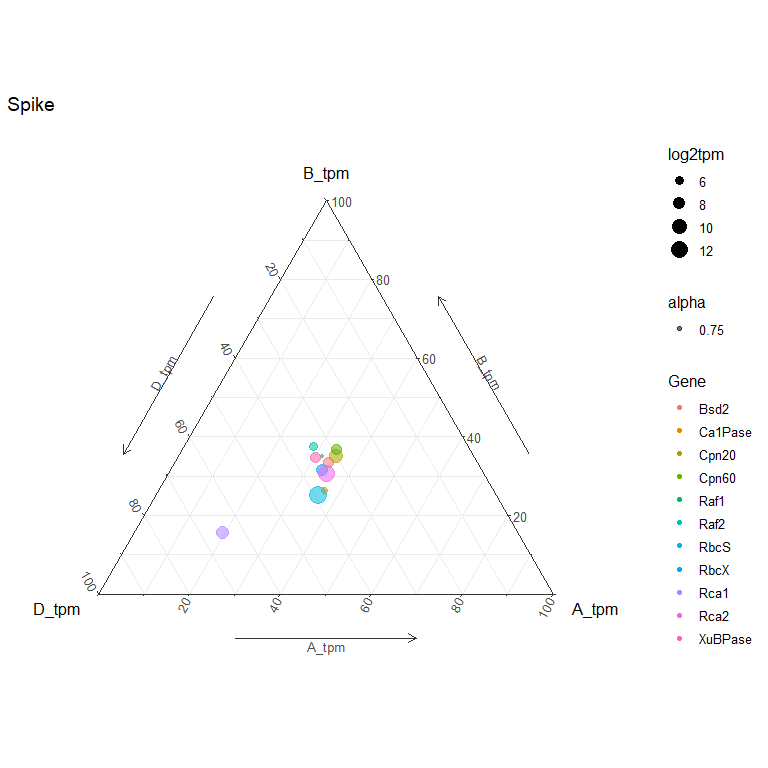
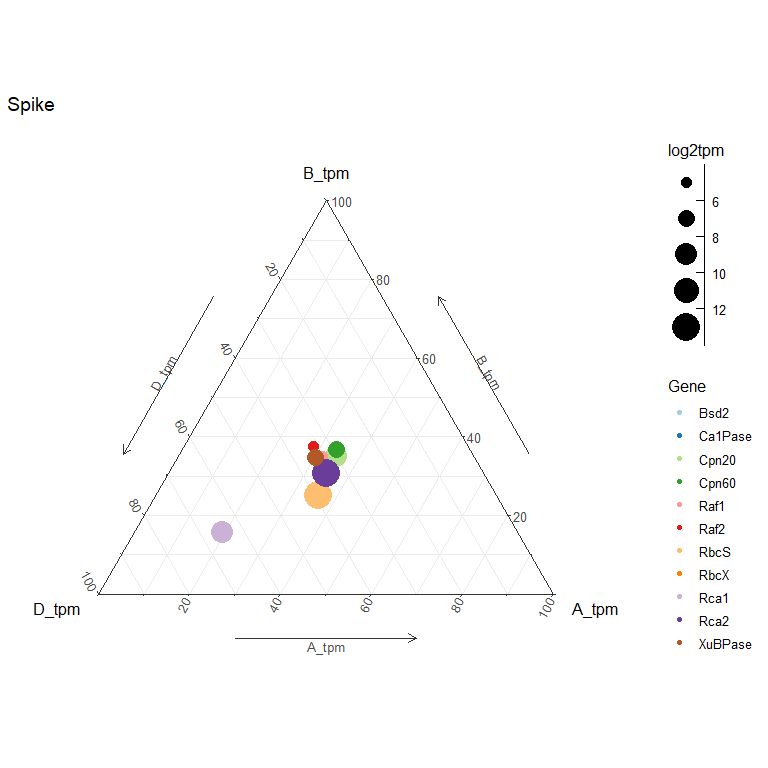
Completed Analysis

Changed region(s): [[0.875, 0.1875, 1.0, 0.8438], [0.375, 0.5625, 0.4688, 0.6875], [0.2812, 0.6562, 0.3125, 0.7188]]

diff --git a/Wheat-Rubiscosome-Expression-Balance-Report.md b/Wheat-Rubiscosome-Expression-Balance-Report.md
@@ -274,8 +274,11 @@ Rubiscosome_mean_heat_control <- full_join(Rubiscosome_mean_heat, Rubiscosome_me
 Rubiscosome_Leaf <- ggtern(Rubiscosome_mean_leaf, aes(D_tpm, B_tpm, A_tpm)) + 
   geom_mask() +
   geom_point(aes(color = Gene,
-                 size = log2tpm,
-                 alpha = 0.75)) +
+                 size = log2tpm)) +
+  scale_size_binned(range = c(1, 10)) +
+  scale_color_manual(values=c("#a6cee3", "#1f78b4", "#b2df8a", "#33a02c",
+                              "#fb9a99", "#e31a1c", "#fdbf6f", "#ff7f00",
+                              "#cab2d6", "#6a3d9a", "#b15928" )) +
   theme_bw()  +
   theme_showarrows() + 
   ggtitle('Leaves and Shoots')
@@ -291,8 +294,11 @@ Rubiscosome_Leaf
 Rubiscosome_Spike <- ggtern(Rubiscosome_mean_spike, aes(D_tpm, B_tpm, A_tpm)) + 
   geom_mask() +
   geom_point(aes(color = Gene,
-                 size = log2tpm,
-                 alpha = 0.75)) +
+                 size = log2tpm)) +
+    scale_size_binned(range = c(1, 10)) +
+  scale_color_manual(values=c("#a6cee3", "#1f78b4", "#b2df8a", "#33a02c",
+                              "#fb9a99", "#e31a1c", "#fdbf6f", "#ff7f00",
+                              "#cab2d6", "#6a3d9a", "#b15928" )) +
   theme_bw()  +
   theme_showarrows() + 
   ggtitle('Spike')
@@ -309,8 +315,11 @@ Rubiscosome_Heat_Stress <- ggtern(Rubiscosome_mean_heat_control, aes(D_tpm, B_tp
   geom_mask() +
   geom_point(aes(color = Gene,
                  size = log2tpm,
-                 alpha = 0.75,
                  shape = Stress)) +
+    scale_size_binned(range = c(1, 10)) +
+  scale_color_manual(values=c("#a6cee3", "#1f78b4", "#b2df8a", "#33a02c",
+                              "#fb9a99", "#e31a1c", "#fdbf6f", "#ff7f00",
+                              "#cab2d6", "#6a3d9a", "#b15928" )) +
   theme_bw()  +
   theme_showarrows() + 
   ggtitle('Heat Stress')
